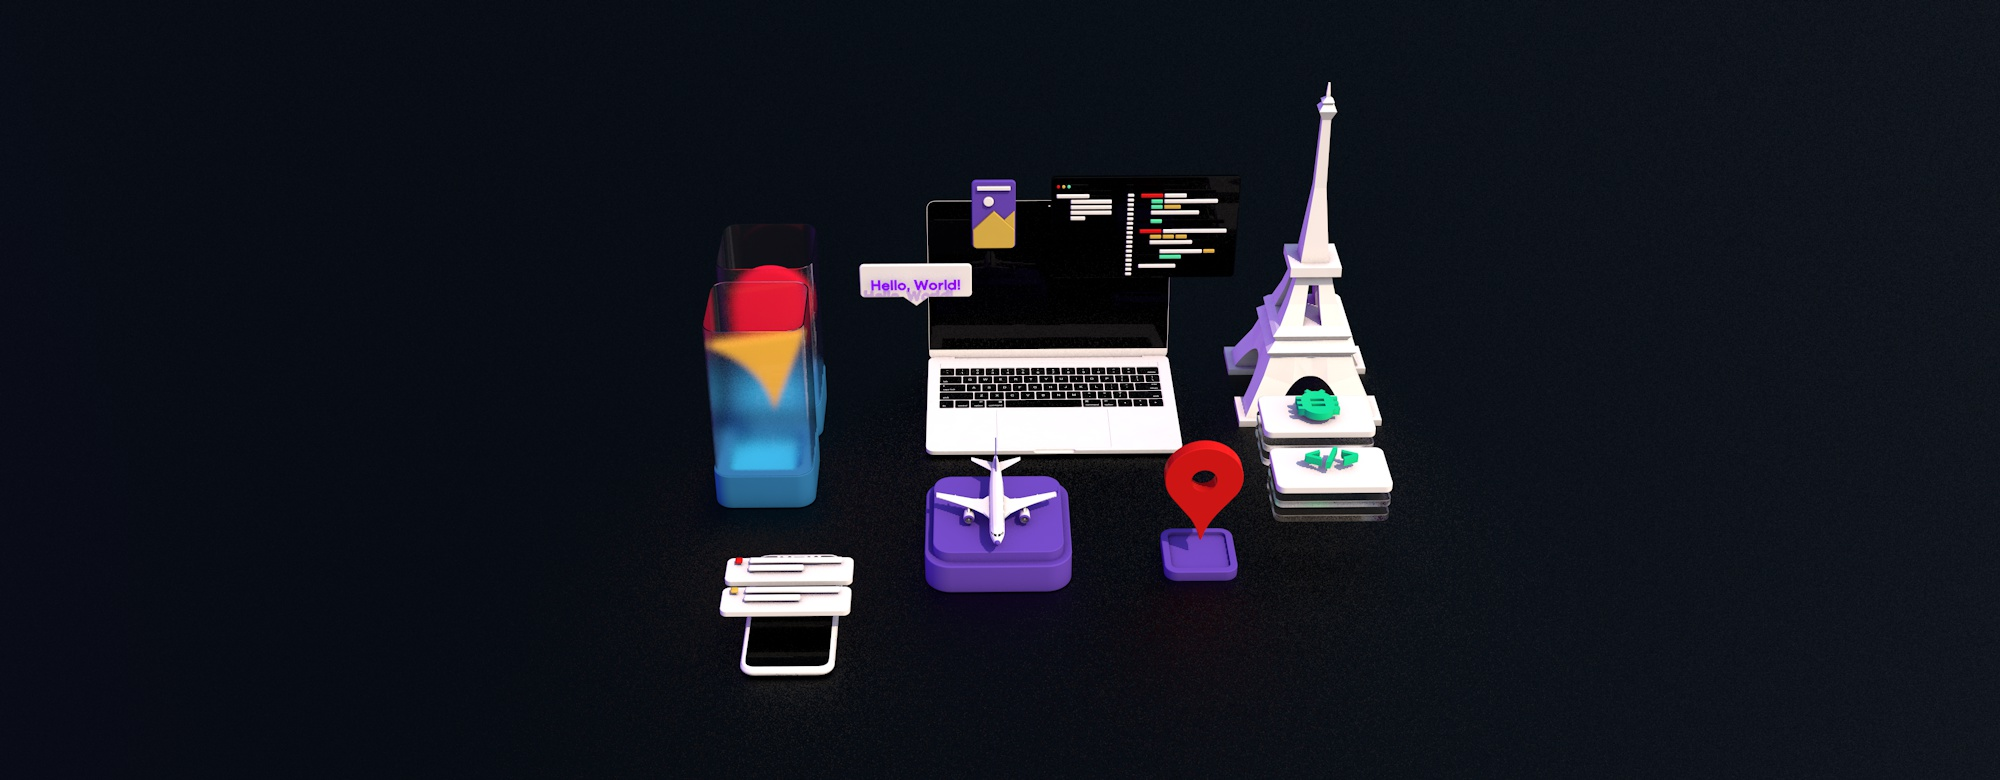
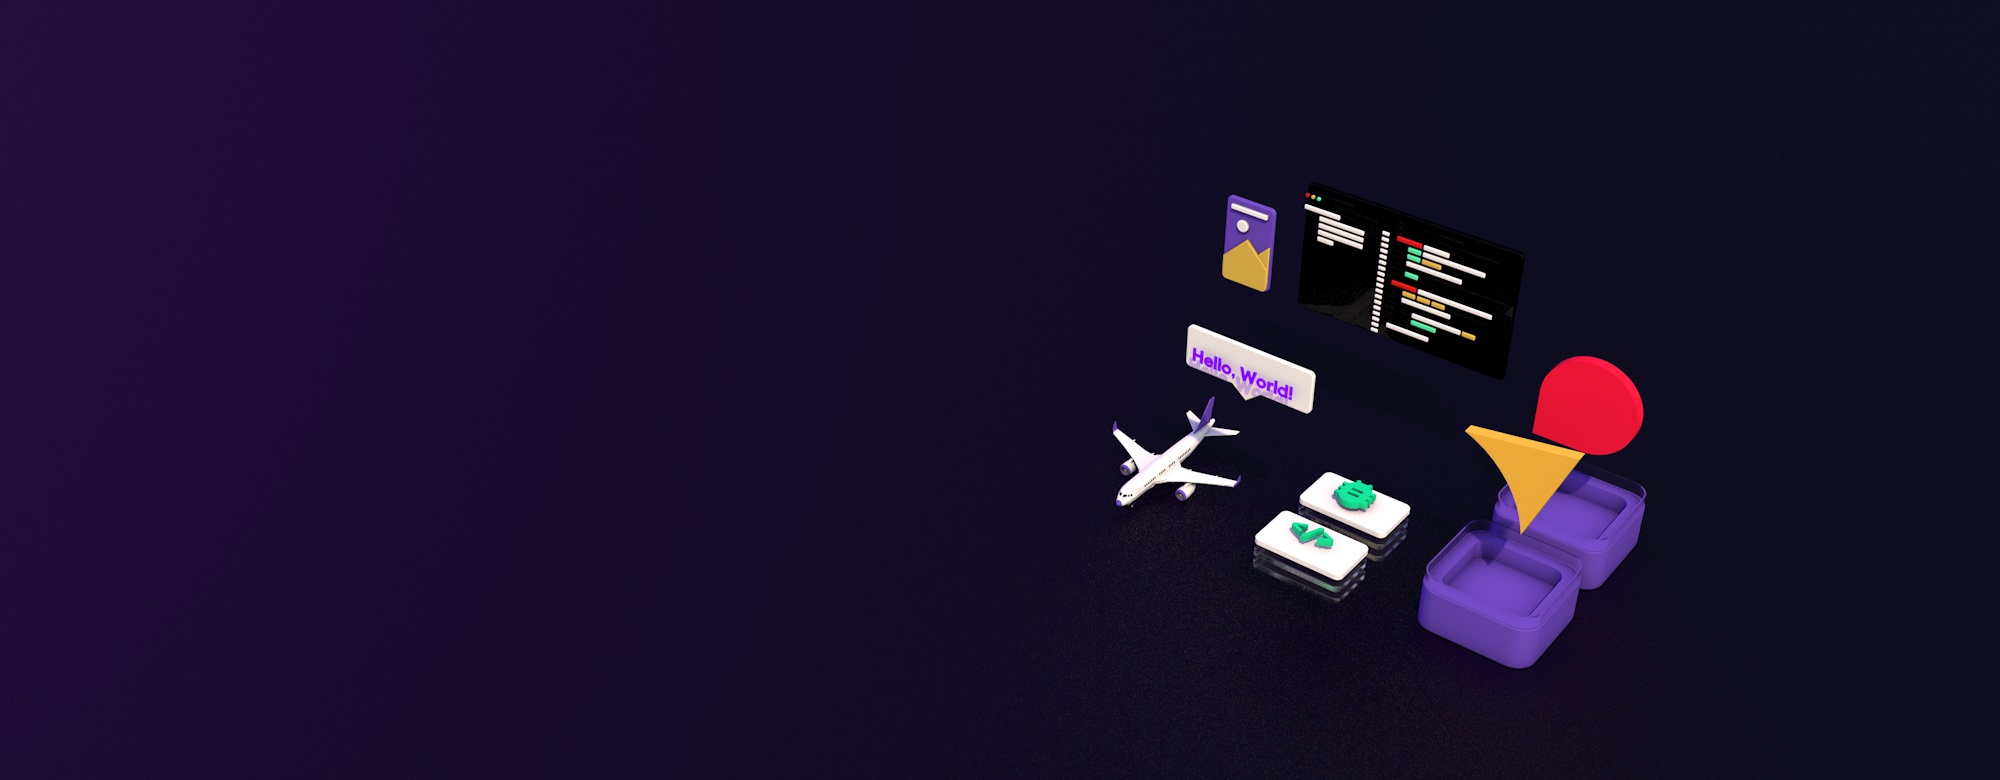
Update blog

diff --git a/_site/assets/css/mediaquery.css b/_site/assets/css/mediaquery.css
@@ -22,9 +22,28 @@
 
     /* Blog */
 
-    .blog-top{
-       height: 400px;
+    .blog-container{
+        top: 66px;
+        display: block;
     }
+
+    .blog-top{
+       height: 300px;
+       background: linear-gradient(135deg, #bb18ec , #5f2fff);
+    }
+
+    .blog-top-txt{
+        width: 100%;
+        padding: 0 24px;
+        margin-top: 33px;
+        z-index: 100;
+    }
+    
+    .blog-top-txt > h1 {
+        font-size: 40px;
+    }
+
+
 
     .blog-row{
         width: 100%;
@@ -38,7 +57,8 @@
     .title-container{
         width: 100%;
         padding: 0 24px;
-        top: 200px;
+        top: 180px;
+        
     }
 
 
@@ -56,13 +76,21 @@
     }
 
     .post-top{
-        height: 400px;
-
+        height: 300px;
+        align-items: center;
+        background-color: red;
     }
 
     .overlay{
-        height: 400px;
+        height: 300px;
 
+    }
+
+    .overlay-s{
+        background-color: rgba(0,0,0,.3);
+        width: 100vw;
+        height: 300px;
+        position: absolute;
     }
 
 
@@ -82,6 +110,10 @@
     .ctitle{
         margin-top: 8px;
         margin-bottom: 0;
+        font-size: 24px;
+    }
+    
+    .ctitle-top{
         font-size: 24px;
     }
 
@@ -238,7 +270,7 @@
     /* Footer */
     #footer {
         background-color: #ffffff;
-        position: relative;
+        width: 100vw;
     }
 
     .inner {

diff --git a/assets/css/mediaquery.css b/assets/css/mediaquery.css
@@ -22,9 +22,28 @@
 
     /* Blog */
 
-    .blog-top{
-       height: 400px;
+    .blog-container{
+        top: 66px;
+        display: block;
     }
+
+    .blog-top{
+       height: 300px;
+       background: linear-gradient(135deg, #bb18ec , #5f2fff);
+    }
+
+    .blog-top-txt{
+        width: 100%;
+        padding: 0 24px;
+        margin-top: 33px;
+        z-index: 100;
+    }
+    
+    .blog-top-txt > h1 {
+        font-size: 40px;
+    }
+
+
 
     .blog-row{
         width: 100%;
@@ -38,7 +57,8 @@
     .title-container{
         width: 100%;
         padding: 0 24px;
-        top: 200px;
+        top: 180px;
+        
     }
 
 
@@ -56,13 +76,21 @@
     }
 
     .post-top{
-        height: 400px;
-
+        height: 300px;
+        align-items: center;
+        background-color: red;
     }
 
     .overlay{
-        height: 400px;
+        height: 300px;
 
+    }
+
+    .overlay-s{
+        background-color: rgba(0,0,0,.3);
+        width: 100vw;
+        height: 300px;
+        position: absolute;
     }
 
 
@@ -82,6 +110,10 @@
     .ctitle{
         margin-top: 8px;
         margin-bottom: 0;
+        font-size: 24px;
+    }
+    
+    .ctitle-top{
         font-size: 24px;
     }
 
@@ -238,7 +270,7 @@
     /* Footer */
     #footer {
         background-color: #ffffff;
-        position: relative;
+        width: 100vw;
     }
 
     .inner {

diff --git a/_site/index.html b/_site/index.html
@@ -34,7 +34,6 @@
   <link rel="stylesheet" type="text/css" href="css/normalize.css" />
   <link rel="stylesheet" type="text/css" href="css/main.css"/>
   <link rel="stylesheet" type="text/css" href="css/mediaquery.css" />
-  <link rel="stylesheet" type="text/css" href="css/blog.css" />
   <link href='//spoqa.github.io/spoqa-han-sans/css/SpoqaHanSans-kr.css' rel='stylesheet' type='text/css'>
   <link href='//spoqa.github.io/spoqa-han-sans/css/SpoqaHanSans-jp.css' rel='stylesheet' type='text/css'>
 
@@ -256,7 +255,7 @@
         </div>
     </div>
 </section>
-<!--
+
 <section id="blog">
     <div class="blog-bg" data-stellar-background-ratio="0.8">
         <div class="blog-wrapper">
@@ -271,7 +270,7 @@
         </div>
     </div>
 </section>
--->
+
 <script src="https://cdnjs.cloudflare.com/ajax/libs/gsap/2.1.3/TweenMax.min.js"></script>
 <script src="https://cdnjs.cloudflare.com/ajax/libs/ScrollMagic/2.0.7/ScrollMagic.min.js"></script>
 <script src="https://cdnjs.cloudflare.com/ajax/libs/ScrollMagic/2.0.7/plugins/debug.addIndicators.min.js"></script>

diff --git a/_site/assets/css/blog.css b/_site/assets/css/blog.css
@@ -39,11 +39,33 @@
 .blog-top{
    width: 100vw;
    height: 700px;
-   background-image: url("/assets/images/blog-bg3.jpg");
+   background-image: url("/assets/images/blog-bg.jpg");
    background-size: cover;
    background-repeat: no-repeat;
    background-position: center top;
+   display: flex;
+   align-items: center;
 }
+
+.blog-top-txt{
+    color: #ffffff;
+    width: 860px;
+    margin: 0 auto;
+}
+
+.blog-top-txt > h1 {
+    font-size: 48px;
+    margin-bottom: 0;
+  /*  text-transform: uppercase;*/
+    
+}
+
+.blog-top-txt > p {
+    color: #ffffff;
+    margin-top: 8px;
+}
+
+
 
 .post-top{
     width: 100vw;

diff --git a/assets/css/blog.css b/assets/css/blog.css
@@ -39,11 +39,33 @@
 .blog-top{
    width: 100vw;
    height: 700px;
-   background-image: url("/assets/images/blog-bg3.jpg");
+   background-image: url("/assets/images/blog-bg.jpg");
    background-size: cover;
    background-repeat: no-repeat;
    background-position: center top;
+   display: flex;
+   align-items: center;
 }
+
+.blog-top-txt{
+    color: #ffffff;
+    width: 860px;
+    margin: 0 auto;
+}
+
+.blog-top-txt > h1 {
+    font-size: 48px;
+    margin-bottom: 0;
+  /*  text-transform: uppercase;*/
+    
+}
+
+.blog-top-txt > p {
+    color: #ffffff;
+    margin-top: 8px;
+}
+
+
 
 .post-top{
     width: 100vw;

diff --git a/index.html b/index.html
@@ -187,7 +187,7 @@ layout: default
         </div>
     </div>
 </section>
-<!--
+
 <section id="blog">
     <div class="blog-bg" data-stellar-background-ratio="0.8">
         <div class="blog-wrapper">
@@ -202,7 +202,7 @@ layout: default
         </div>
     </div>
 </section>
--->
+
 <script src="https://cdnjs.cloudflare.com/ajax/libs/gsap/2.1.3/TweenMax.min.js"></script>
 <script src="https://cdnjs.cloudflare.com/ajax/libs/ScrollMagic/2.0.7/ScrollMagic.min.js"></script>
 <script src="https://cdnjs.cloudflare.com/ajax/libs/ScrollMagic/2.0.7/plugins/debug.addIndicators.min.js"></script>

diff --git a/_includes/head.html b/_includes/head.html
@@ -32,7 +32,6 @@
   <link rel="stylesheet" type="text/css" href="css/normalize.css" />
   <link rel="stylesheet" type="text/css" href="css/main.css"/>
   <link rel="stylesheet" type="text/css" href="css/mediaquery.css" />
-  <link rel="stylesheet" type="text/css" href="css/blog.css" />
   <link href='//spoqa.github.io/spoqa-han-sans/css/SpoqaHanSans-kr.css' rel='stylesheet' type='text/css'>
   <link href='//spoqa.github.io/spoqa-han-sans/css/SpoqaHanSans-jp.css' rel='stylesheet' type='text/css'>
 

diff --git a/blog.html b/blog.html
@@ -5,6 +5,12 @@ permalink: /blog
 ---
 <div class="blog-container" id="blog-main">
     <div class="blog-top">
+        <div class="overlay-s"></div>
+        <div class="blog-top-txt">
+            <h1>How to make travel</h1>
+            <p>스퀘어랩 블로그</p>
+        </div>
+        
     </div>
     <div class="blog-row">
         <div class="post">

diff --git a/_site/blog.html b/_site/blog.html
@@ -44,6 +44,12 @@
 
       <div class="blog-container" id="blog-main">
     <div class="blog-top">
+        <div class="overlay-s"></div>
+        <div class="blog-top-txt">
+            <h1>How to make travel</h1>
+            <p>스퀘어랩 블로그</p>
+        </div>
+        
     </div>
     <div class="blog-row">
         <div class="post">
